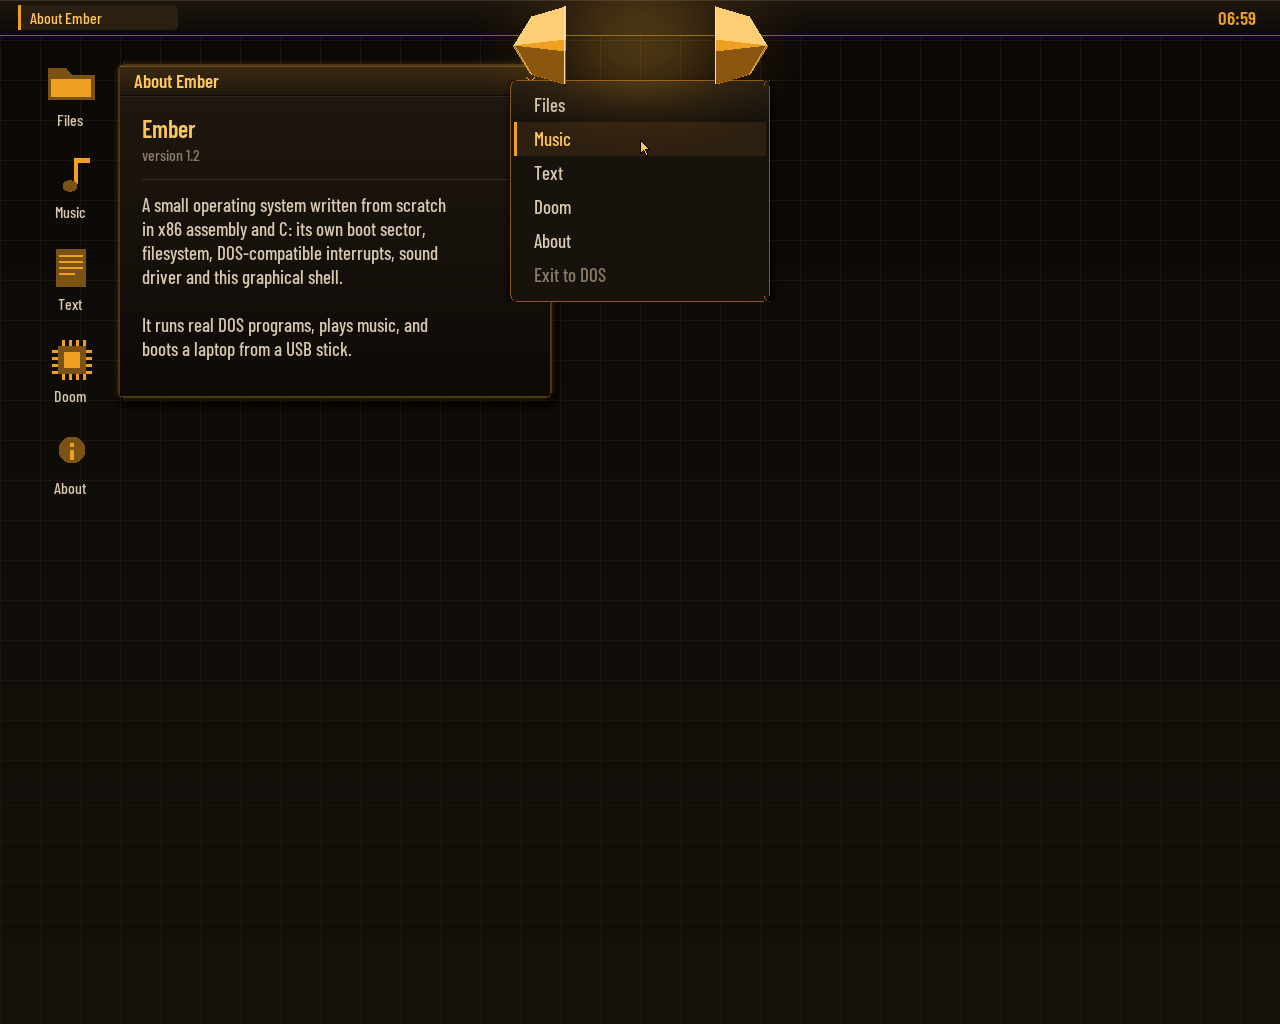
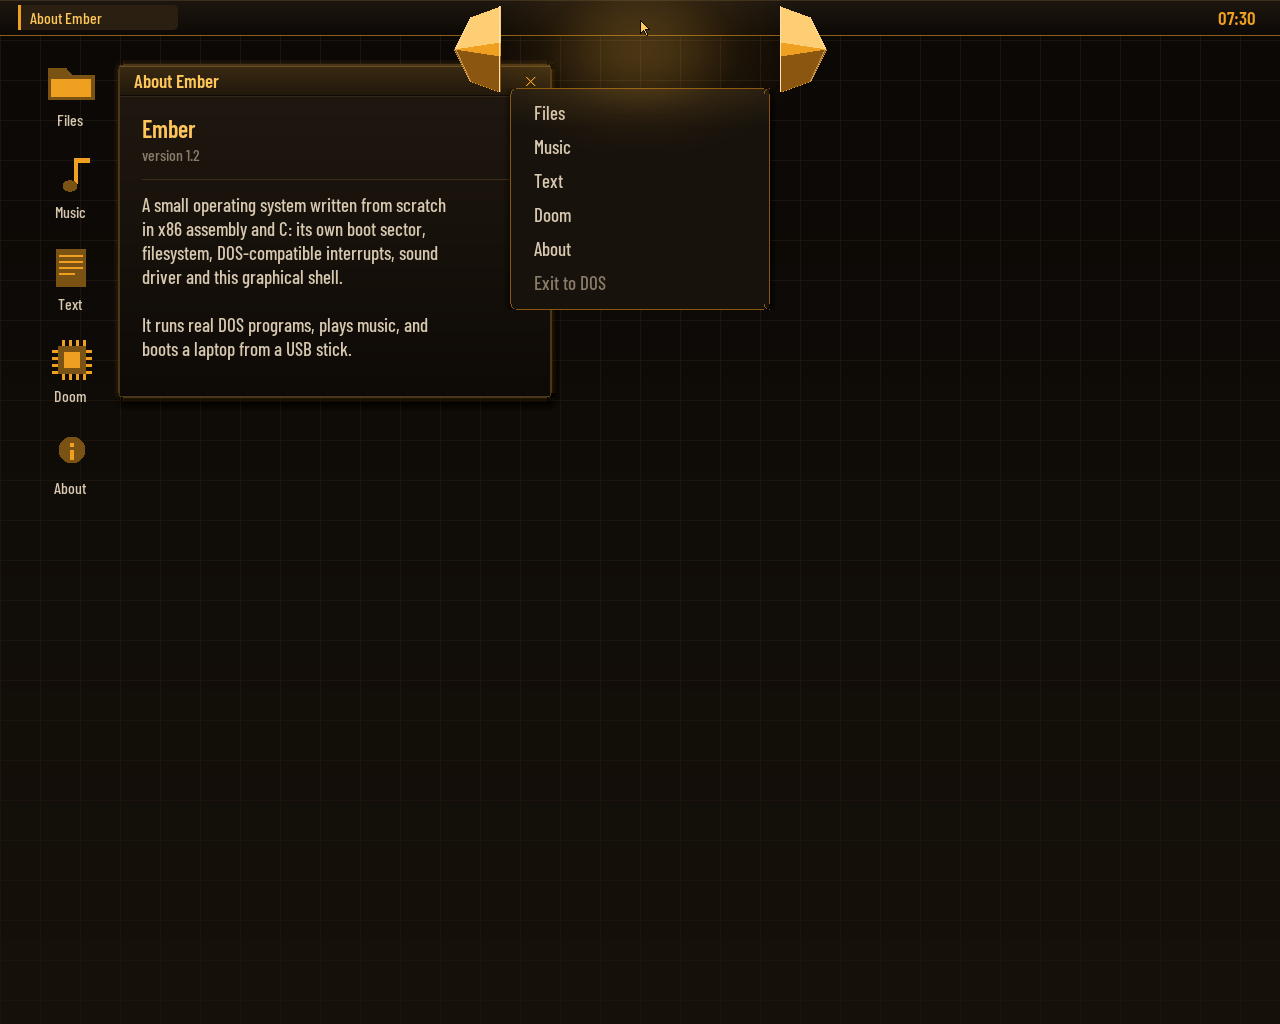
Desktop: the menu now opens into the gap the crystal leaves
The two halves travel far enough apart that the menu occupies the space
between them, which is what the break is meant to reveal.  The gem and the
desktop icons are drawn in place for now and are meant to be replaced with
real artwork.

Changed region(s): [[0.3438, 0.0, 0.4688, 0.3125], [0.5312, 0.0, 0.6562, 0.0938], [0.9688, 0.0, 1.0, 0.0312]]

diff --git a/nano/gui/crystal.c b/nano/gui/crystal.c
@@ -25,10 +25,13 @@
 #define TEXT        0xD8C8B0
 #define TEXT_DIM    0x8A7C68
 
-#define CRYSTAL_W   104         /* the whole gem */
-#define CRYSTAL_H   78
-#define SPLIT_MAX   150         /* how far each half travels */
-#define ANIM_MS     260         /* how long the break takes */
+#define CRYSTAL_W   92          /* the whole gem */
+#define CRYSTAL_H   86
+#define MENU_W      260
+#define SPLIT_GAP   10          /* clearance between a half and the menu */
+/* each half ends up just clear of the menu, so the menu occupies the gap */
+#define SPLIT_MAX   (MENU_W + SPLIT_GAP * 2)
+#define ANIM_MS     300         /* how long the break takes */
 
 int crystal_x, crystal_y = 6;
 
@@ -39,7 +42,6 @@ static int hovered;
 static const char *items[] = {
     "Files", "Music", "Text", "Doom", "About", "Exit to DOS", 0
 };
-#define MENU_W   260
 #define ROW_H    34
 static int menu_sel = -1;
 
